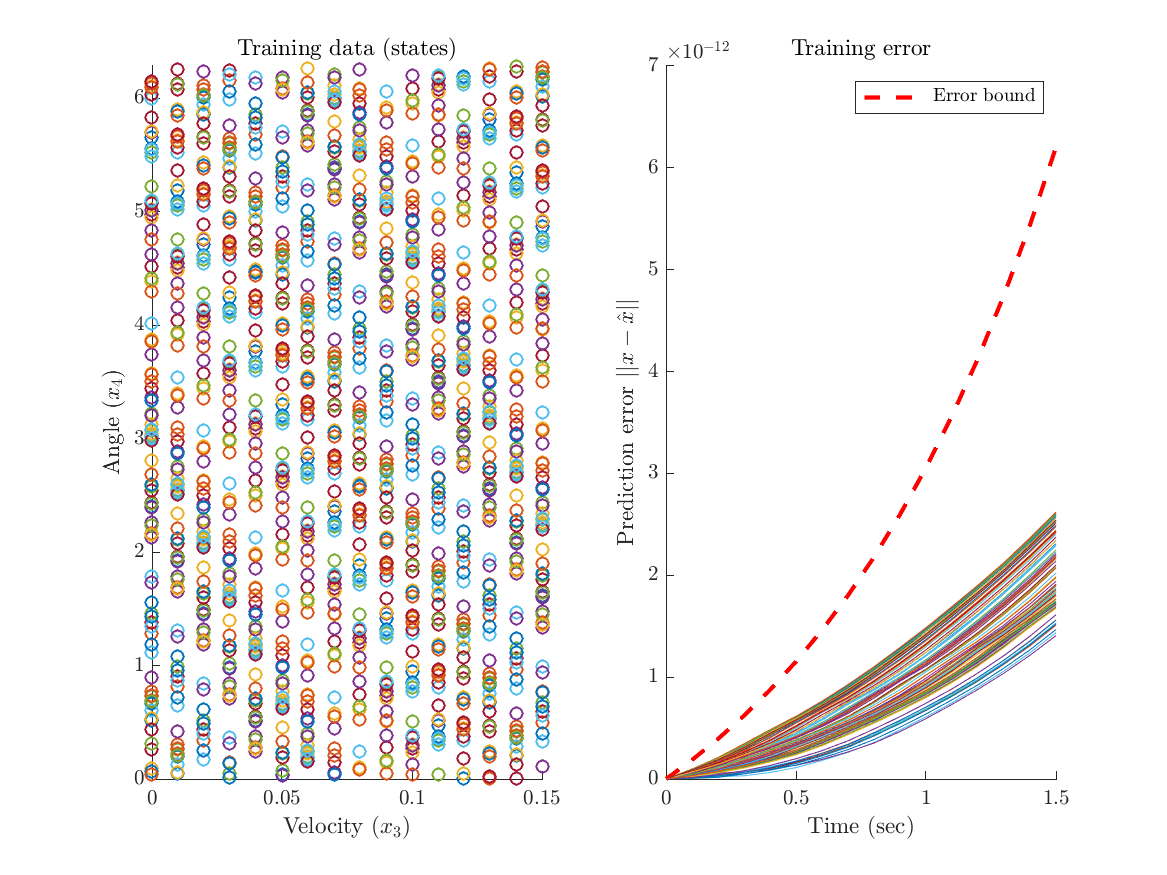
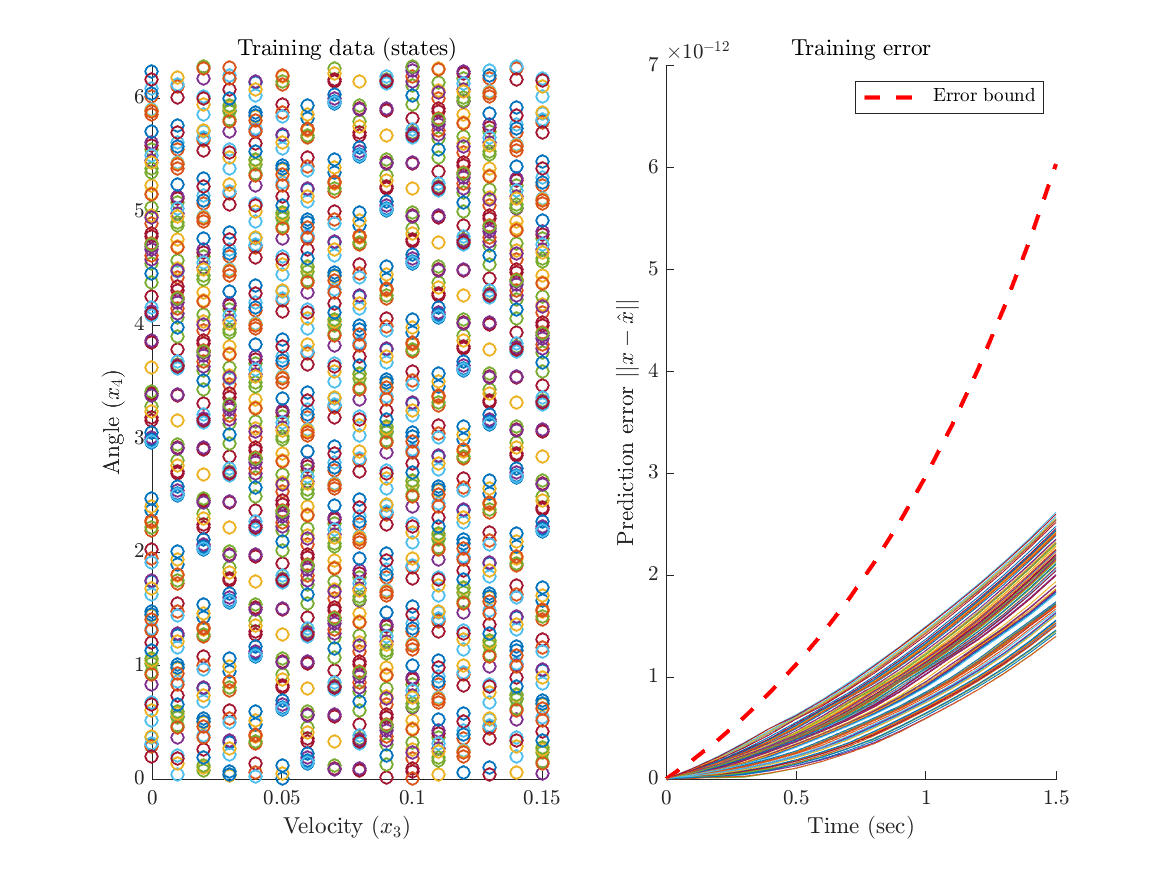
Generalization and bug fixes

diff --git a/dubin_example.m b/dubin_example.m
@@ -2,24 +2,30 @@
 % Written by Yuxiao Chen and Carl Folkestad
 % California Institute of Technology, 2020
 
-clc; clear; clf; close all; addpath('controllers','dynamics','koopman_learning','utils')
+clc; clear; clf; close all; addpath('controllers','dynamics','koopman_learning','utils','utils/qpOASES-3.1.0/interfaces/matlab')
 
 %% Define experiment parameters:
 
 %State constraints and backup controller parameters:
-global Ts vm rm am x_bdry
-affine_dynamics = @(x) dubin(x);                    % System dynamics, returns [f,g] with x_dot = f(x) + g(x)u
-                                                    % State is defined as x = [X,Y,v,theta], u = [a,r]
-sim_dynamics = @(x,u) dubin_sim(x,u);               % System dynamics used for simulation
-sim_process = @(x,ts) dubin_sim_process(x,ts);      % Processing of states while simulating
-Ts = 0.1;                                          % Sampling interval
-vm = 0.15;                                           % Maximum velocity
-rm = 3*pi/2;                                          % Maximum yaw rate
+global Ts T_max vm rm am x_bdry
+Ts = 0.1;                                           % Sampling interval
+T_max = 2;
+vm = 0.15;                                          % Maximum velocity
+rm = 3*pi/2;                                        % Maximum yaw rate
 am = 0.1;                                           % Maximum acceleration
 x_bdry = [-1.6 1.6;-1 1;vm vm;0 2*pi];              % State constraints
+ts = 0.02;
 N_max = ceil(vm/am/Ts);                             % Maximum backup controller horizon
-con1 = @(x)[-am*sign(x(3));rm];                     % Backup controller (max brake and max turn)
+
+affine_dynamics = @(x) dubin(x);                    % System dynamics, returns [f,g] with x_dot = f(x) + g(x)u
+                                                    % State is defined as x = [X,Y,v,theta], u = [a,r]
+backup_controller = @(x) [-am*sign(x(3));rm];        % Backup controller (max brake and max turn)
+controller_process = @(u) u;
 stop_crit1 = @(t,x)(abs(x(3))<=0);                  % Stop if velocity is zero
+sim_dynamics = @(x,u) dubin_sim(x,u);               % System dynamics used for simulation
+sim_process = @(x,ts) dubin_sim_process(x,ts);      % Processing of states while simulating
+initial_condition = @() x_bdry(:,1)+...
+    (x_bdry(:,2)-x_bdry(:,1)).*rand(4,1);           % Sample random initial value of x inside x_bdry
 
 %Koopman learning parameters:
 dubin_dictionary;                                   % Generate dictionary for Dubin's car system
@@ -29,7 +35,7 @@ n_samples = 100;                                    % Number of initial conditio
 %Collision avoidance experiment parameters:
 global T_exp obs r
 x0 = [0;0;vm;0];                                    % Initial condition for experiment
-x_des = [1;0;0;0];                                 % Desired state for legacy controller
+x_des = [1;0;0;0];                                  % Desired state for legacy controller
 mpc_horizon = 20;                                   % Time horizon of legacy controller
 legacy_controller = @(x) MIQP_MPC_v3(x,x_des,20);   % Legacy controller (MPC)
 options = qpOASES_options('printLevel',0);          % Solver options for supervisory controller
@@ -41,7 +47,7 @@ barrier_func = @(x) round_obs(x,obs,r);             % Barrier function
 
 %% Learn approximated discrete-time Koopman operator:
 
-X_train = collect_data(sim_dynamics, sim_process, con1, stop_crit1, n_samples); 
+[T_train, X_train] = collect_data(sim_dynamics, sim_process, backup_controller, controller_process, stop_crit1, initial_condition, n_samples, ts); 
 [K, C] = edmd(X_train, func_dict);
 K_pows = precalc_matrix_powers(N_max,K);
 
@@ -55,7 +61,7 @@ plot_training_fit(X_train, K_pows, C, func_dict, error_bound);
 
 %% Evaluate Koopman approximation on test data:
 
-X_test = collect_data(sim_dynamics, sim_process, con1, stop_crit1, n_samples); 
+[T_test, X_test] = collect_data(sim_dynamics, sim_process, backup_controller, controller_process, stop_crit1, initial_condition, n_samples, ts); 
 plot_test_fit(X_train, X_test, K_pows, C, func_dict, error_bound);
 
 %% Evaluate Koopman based CBF safety filter:
@@ -66,4 +72,4 @@ plot_experiment(x_rec, u_rec, u0_rec, func_dict, K_pows, C);
 
 %% Save learned matrices to use in other experiments:
 close all;
-save('data/dubin_learned_koopman.mat','K_pows','C','func_dict','N_max')
+save('data/dubin_learned_koopman.mat','K_pows','C','N_max')

diff --git a/koopman_learning/collect_data.m b/koopman_learning/collect_data.m
@@ -1,30 +1,34 @@
-function X = collect_data(sim_dynamics, sim_process, controller, stop_criterion, n_samples)
-    %State is defined as x = [X,Y,v,theta], u = [a,r]
-    global Ts x_bdry;
-
+function [T,X] = collect_data(sim_dynamics, sim_process, controller, controller_process, stop_criterion, initial_condition, n_samples, ts)
+    global Ts;
+    
+    if nargin<8
+        ts = 0.02;
+    end
+    disp('Collecting data...')
     X = {};
-
-    for i=1:n_samples
-        x = x_bdry(:,1)+(x_bdry(:,2)-x_bdry(:,1)).*rand(4,1);  % Sample random initial value of x inside x_bdry
-        [tt,xx] = simulate_sys(x,sim_dynamics,sim_process,controller,stop_criterion);  % Simulate backup trajectory from intial value
-        xx1 = interp1(tt,xx,0:Ts:tt(end));
-        X{i} = xx1;
+    i = 1;
+    while i <= n_samples
+        x = initial_condition();
+        [tt,xx] = simulate_sys(x,sim_dynamics,sim_process,controller, controller_process, stop_criterion, ts);  % Simulate backup trajectory from initial value
+        if stop_criterion(tt(end),xx(end,:)) && length(tt) > 2
+            xx1 = interp1(tt,xx,0:Ts:tt(end));
+            T{i} = tt;
+            X{i} = xx1;
+            i = i+1;
+            fprintf('Sample %i generated\n', i-1);
+        end
     end
 end
 
-function [tt,xx] = simulate_sys(x, sim_dynamics, sim_process, controller, stop_criterion, ts)
-    %global vm am Ts    
-    if nargin<6
-        ts = 0.02;
-    end
-    
+function [tt,xx] = simulate_sys(x, sim_dynamics, sim_process, controller, controller_process, stop_criterion, ts)
+    global T_max
     t = 0;
     tt = 0;
     xx = x';
-
-    while ~stop_criterion(t,x)
-    %for i = 1 : ceil(vm/am/Ts)
+    
+    while ~stop_criterion(t,x) && t < T_max
         u = controller(x);
+        u = controller_process(u);
         xdot = @(t,x) sim_dynamics(x,u);
         [~, x_tmp] = ode45(xdot,[t,t+ts],x);
         x = x_tmp(end,:)';
@@ -32,5 +36,6 @@ function [tt,xx] = simulate_sys(x, sim_dynamics, sim_process, controller, stop_c
         t = t + ts;
         tt = [tt;t];
         xx = [xx;x'];
+        %disp([x(1:3) x(8:10)])
     end
 end

diff --git a/robotarium_collision_obstacle_avoidance.m b/robotarium_collision_obstacle_avoidance.m
@@ -45,6 +45,7 @@ controller = create_si_position_controller();           % Legacy controller (gre
 
 % Construct Koopman CBF supervisory controller:
 load(koopman_file)
+func_dict = @(x) dubin_D(x(1),x(2),x(3),x(4));
 options = qpOASES_options('printLevel',0);              % Solver options for supervisory controller
 affine_dynamics = @(x) dubin(x);                        % System dynamics, returns [f,g] with x_dot = f(x) + g(x)u
                                                         % State is defined as x = [X,Y,v,theta], u = [a,r]

diff --git a/robotarium_obstacle_avoidance.m b/robotarium_obstacle_avoidance.m
@@ -45,6 +45,7 @@ controller = create_si_position_controller();           % Legacy controller (gre
 
 % Construct Koopman CBF supervisory controller:
 load(koopman_file)
+func_dict = @(x) dubin_D(x(1),x(2),x(3),x(4));
 options = qpOASES_options('printLevel',0);              % Solver options for supervisory controller
 affine_dynamics = @(x) dubin(x);                        % System dynamics, returns [f,g] with x_dot = f(x) + g(x)u
                                                         % State is defined as x = [X,Y,v,theta], u = [a,r]

diff --git a/koopman_learning/edmd.m b/koopman_learning/edmd.m
@@ -1,15 +1,14 @@
 function [K, C] = edmd(X, func_dict)
+    [Z, Z_p] = lift_data(X, func_dict);
+    n_lift = size(Z,1);
 
-[Z, Z_p] = lift_data(X, func_dict);
-n_lift = size(Z,1);
+    cvx_begin
+    cvx_solver gurobi
+    variables K(n_lift,n_lift)
+    minimize(norm(Z_p - K*Z, Inf))
+    cvx_end
 
-cvx_begin
-cvx_solver gurobi
-variables K(n_lift,n_lift)
-minimize(norm(Z_p-K*Z,Inf) )
-cvx_end
-
-[~,~,C] = func_dict(X{1}(1,:));
+    [~,~,C] = func_dict(X{1}(1,:));
 end
 
 function [Z, Z_p] = lift_data(X, func_dict)

diff --git a/koopman_learning/dubin_D.m b/koopman_learning/dubin_D.m
@@ -3,7 +3,7 @@ function [D,J,C] = dubin_D(x1,x2,x3,x4)
 %    [D,J,C] = DUBIN_D(X1,X2,X3,X4)
 
 %    This function was generated by the Symbolic Math Toolbox version 8.1.
-%    25-Aug-2020 17:47:46
+%    27-Aug-2020 17:54:15
 
 t2 = cos(x4);
 t3 = sin(x4);

diff --git a/utils/plot_training_fit.m b/utils/plot_training_fit.m
@@ -55,5 +55,4 @@ function plot_training_fit(X, K_pows, C, func_dict, error_bound)
     
     saveas(fig,'figures/training_fit.png')
     
-
 end

diff --git a/dynamics/dubin_sim.m b/dynamics/dubin_sim.m
@@ -1,4 +1,4 @@
-function xdot = dubin_sim(x,u)
+function xdot = dubin_sim(x, u)
     global vm
     [f,g] = dubin(x);
     xdot = f+g*u;

diff --git a/dynamics/sim_cl_dynamics.m b/dynamics/sim_cl_dynamics.m
@@ -1,0 +1,4 @@
+function xdot = sim_cl_dynamics(x, u, affine_dynamics)
+    [f,g] = affine_dynamics(x);
+    xdot = f + g*u;
+end
